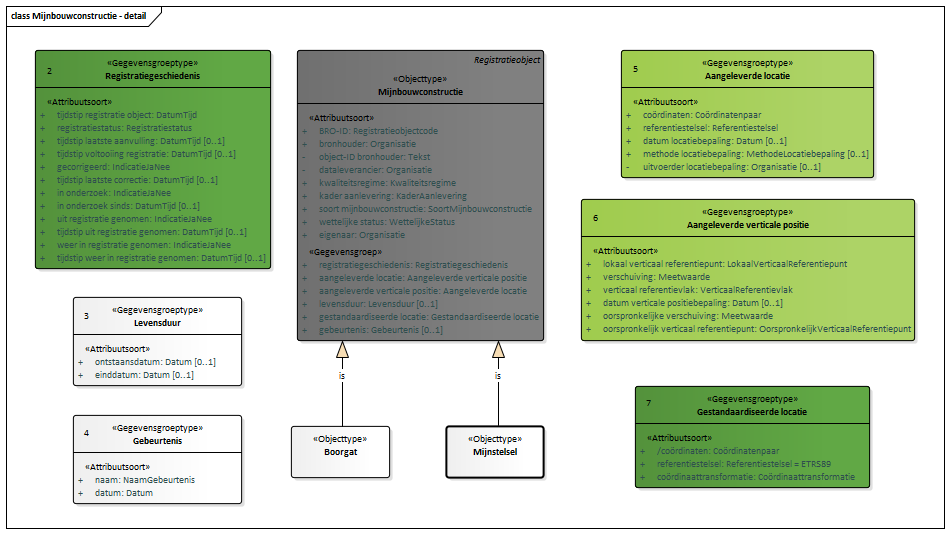
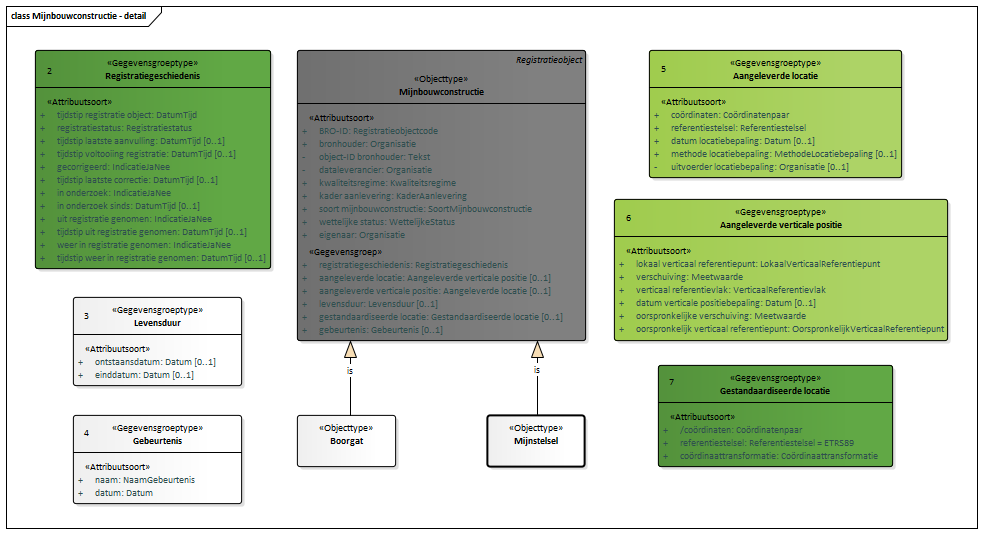
Conceptualmodel-MijnbouwconstructiesEPC-conceptueel-0.1versie27juli2020-1-20200727-20210115-105743

diff --git a/data/EPC-cat.msword.html b/data/EPC-cat.msword.html
@@ -15,7 +15,7 @@
    <body>
       <p>Conceptual model/Mijnbouwconstructies (EPC) - conceptueel/20200727</p>
       <p>Imvertor: 1.63.0</p>
-      <p>Model release: Conceptualmodel-MijnbouwconstructiesEPC-conceptueel-0.1versie27juli2020-1-20200727-20210115-085058</p>
+      <p>Model release: Conceptualmodel-MijnbouwconstructiesEPC-conceptueel-0.1versie27juli2020-1-20200727-20210115-105743</p>
       <hr>
       <section>
          <h1>Artikel 1 Definitie van registratieobject, entiteiten en attributen</h1>
@@ -62,7 +62,7 @@
          <section>
             <h2>Het domeinmodel</h2>
             <section id="">
-               <div class="imageinfo overview"><img src="Images/EAID_017CB205_53B6_4659_8664_F773CFA9FA2C.png" usemap="#imagemap-EAID_017CB205_53B6_4659_8664_F773CFA9FA2C" alt="Diagram "><map name="imagemap-EAID_017CB205_53B6_4659_8664_F773CFA9FA2C"><area shape="rect" alt="Mijnkaart" coords="1149,407,1301,579" href="#graph_EAID_1A8DB415_AEF6_4f69_8E8C_0187A61B4D1B"><area shape="rect" alt="Ontginningszone" coords="937,649,1202,820" href="#graph_EAID_B1D55B65_6D27_4eb4_86EC_32DE6BA11322"><area shape="rect" alt="Transportzone" coords="634,649,902,806" href="#graph_EAID_828E18BC_B644_41e8_BF25_CBDE10E9249E"><area shape="rect" alt="Toegang" coords="333,649,602,820" href="#graph_EAID_35D7E222_DC56_4b0e_B219_FCFEF3AE6D86"><area shape="rect" alt="Mijnstelsel" coords="628,407,897,564" href="#graph_EAID_CACC8EE7_6654_4fe8_8333_101AC6BA294D"><area shape="rect" alt="Boorgat" coords="55,399,218,437" href="#graph_EAID_78FEC25A_E260_4420_9D1D_66F309EA2C60"><area shape="rect" alt="Boortraject" coords="35,493,248,664" href="#graph_EAID_4E52826A_2252_4994_8AD0_986AD45E18C9"><area shape="rect" alt="Mijnbouwconstructie" coords="307,50,554,325" href="#graph_EAID_69DE8D60_7E06_4b57_94CD_8338348EDAE5"></map><p><b>Mijnbouwconstructies (EPC) -  overzicht</b></p>
+               <div class="imageinfo overview"><img src="Images/EAID_017CB205_53B6_4659_8664_F773CFA9FA2C.png" usemap="#imagemap-EAID_017CB205_53B6_4659_8664_F773CFA9FA2C" alt="Diagram "><map name="imagemap-EAID_017CB205_53B6_4659_8664_F773CFA9FA2C"><area shape="rect" alt="Mijnkaart" coords="1019,405,1171,577" href="#graph_EAID_1A8DB415_AEF6_4f69_8E8C_0187A61B4D1B"><area shape="rect" alt="Ontginningszone" coords="900,647,1172,818" href="#graph_EAID_B1D55B65_6D27_4eb4_86EC_32DE6BA11322"><area shape="rect" alt="Transportzone" coords="597,647,871,804" href="#graph_EAID_828E18BC_B644_41e8_BF25_CBDE10E9249E"><area shape="rect" alt="Toegang" coords="296,647,573,818" href="#graph_EAID_35D7E222_DC56_4b0e_B219_FCFEF3AE6D86"><area shape="rect" alt="Mijnstelsel" coords="591,405,860,562" href="#graph_EAID_CACC8EE7_6654_4fe8_8333_101AC6BA294D"><area shape="rect" alt="Boorgat" coords="55,397,218,435" href="#graph_EAID_78FEC25A_E260_4420_9D1D_66F309EA2C60"><area shape="rect" alt="Boortraject" coords="35,491,248,662" href="#graph_EAID_4E52826A_2252_4994_8AD0_986AD45E18C9"><area shape="rect" alt="Mijnbouwconstructie" coords="273,50,562,325" href="#graph_EAID_69DE8D60_7E06_4b57_94CD_8338348EDAE5"></map><p><b>Mijnbouwconstructies (EPC) -  overzicht</b></p>
                </div>
             </section>
          </section>
@@ -70,7 +70,7 @@
             <h2>Entiteiten en attributen</h2>
             <section id=""><a class="anchor" id="graph_EAID_69DE8D60_7E06_4b57_94CD_8338348EDAE5"></a><a class="anchor" id="global_class_Model_Mijnbouwconstructie"></a><section id="global_class_Model_Mijnbouwconstructie">
                   <h3>   Mijnbouwconstructie</h3>
-                  <div class="imageinfo "><img src="Images/EAID_4918A086_07EB_4d65_A8F1_3AE97E085019.png" usemap="#imagemap-EAID_4918A086_07EB_4d65_A8F1_3AE97E085019" alt="Diagram "><map name="imagemap-EAID_4918A086_07EB_4d65_A8F1_3AE97E085019"><area shape="rect" alt="Gebeurtenis" coords="73,415,242,504" href="#graph_EAID_9C6EA470_E1F4_479d_B21A_A6E8EA9D3F88"><area shape="rect" alt="Mijnstelsel" coords="446,426,544,478" href="#graph_EAID_CACC8EE7_6654_4fe8_8333_101AC6BA294D"><area shape="rect" alt="Boorgat" coords="291,426,390,478" href="#graph_EAID_78FEC25A_E260_4420_9D1D_66F309EA2C60"><area shape="rect" alt="Levensduur" coords="73,297,242,386" href="#graph_EAID_C36A9725_3F81_4f6c_BDE2_5CED730905A2"><area shape="rect" alt="Gestandaardiseerde locatie" coords="635,386,870,488" href="#graph_EAID_95E39295_3080_4135_862A_30756039B864"><area shape="rect" alt="Mijnbouwconstructie" coords="297,50,544,341" href="#graph_EAID_69DE8D60_7E06_4b57_94CD_8338348EDAE5"><area shape="rect" alt="Registratiegeschiedenis" coords="35,50,271,269" href="#graph_EAID_8550146B_496A_40ca_BE86_AFD377E5A6D8"><area shape="rect" alt="Aangeleverde verticale positie" coords="581,199,915,341" href="#graph_EAID_A249D799_B098_49cd_98AA_DCAE0EB07DE7"><area shape="rect" alt="Aangeleverde locatie" coords="621,50,874,178" href="#graph_EAID_EDA11EEA_8FED_44be_AC04_18B58CB46F11"></map><p><b></b></p>
+                  <div class="imageinfo "><img src="Images/EAID_4918A086_07EB_4d65_A8F1_3AE97E085019.png" usemap="#imagemap-EAID_4918A086_07EB_4d65_A8F1_3AE97E085019" alt="Diagram "><map name="imagemap-EAID_4918A086_07EB_4d65_A8F1_3AE97E085019"><area shape="rect" alt="Gebeurtenis" coords="73,415,242,504" href="#graph_EAID_9C6EA470_E1F4_479d_B21A_A6E8EA9D3F88"><area shape="rect" alt="Mijnstelsel" coords="487,415,585,467" href="#graph_EAID_CACC8EE7_6654_4fe8_8333_101AC6BA294D"><area shape="rect" alt="Boorgat" coords="297,415,396,467" href="#graph_EAID_78FEC25A_E260_4420_9D1D_66F309EA2C60"><area shape="rect" alt="Levensduur" coords="73,297,242,386" href="#graph_EAID_C36A9725_3F81_4f6c_BDE2_5CED730905A2"><area shape="rect" alt="Gestandaardiseerde locatie" coords="658,365,893,467" href="#graph_EAID_95E39295_3080_4135_862A_30756039B864"><area shape="rect" alt="Mijnbouwconstructie" coords="297,50,586,341" href="#graph_EAID_69DE8D60_7E06_4b57_94CD_8338348EDAE5"><area shape="rect" alt="Registratiegeschiedenis" coords="35,50,271,269" href="#graph_EAID_8550146B_496A_40ca_BE86_AFD377E5A6D8"><area shape="rect" alt="Aangeleverde verticale positie" coords="614,199,948,341" href="#graph_EAID_A249D799_B098_49cd_98AA_DCAE0EB07DE7"><area shape="rect" alt="Aangeleverde locatie" coords="649,50,902,178" href="#graph_EAID_EDA11EEA_8FED_44be_AC04_18B58CB46F11"></map><p><b></b></p>
                   </div>
                   <table style="width: 100%;">
                      <colgroup style="width: 30%;"></colgroup>
@@ -553,14 +553,19 @@
                               <th>Reden geen waarde</th>
                               <td>
                                  
-                                 <p>Voor IMBRO/A gegevens mag de eigenaar ontbreken wanneer het attribuut <em>mijnbouwactiviteit</em> gelijk is aan opsporenDelfstof (steenkool).
-                                    De eigenaar mag ontbreken wanneer de laatste eigenaar van een boorgat failliet is
+                                 <p>Voor IMBRO/A gegevens mag de eigenaar ontbreken wanneer het attribuut <em>mijnbouwactiviteit</em> gelijk is aan opsporenDelfstof (steenkool).</p>
+                                 
+                                 <p>De eigenaar mag ontbreken wanneer de laatste eigenaar van een boorgat failliet is
                                     gegaan en het bedrijf niet is overgenomen door een ander. Op dat moment is het boorgat
-                                    eigenaarloos.
-                                    De eigenaar van het <em>Mijnstelsel</em> is een natuurlijk persoon.
-                                    Het <em>Mijnstelsel</em> is niet van het <em>soort mijnstelsel</em> 'steenkoolmijn' en heeft toegangen met verschillende eigenaren.
-                                    Het <em>Mijnstelsel</em> is niet van het <em>soort mijnstelsel</em> 'steenkoolmijn' en heeft alleen toegangen die buiten Nederland liggen.
-                                    Het <em>Mijnstelsel</em> is niet van het <em>soort mijnstelsel</em> 'steenkoolmijn' en heeft geen bekende toegangen.</p>
+                                    eigenaarloos.</p>
+                                 
+                                 <p>De eigenaar van het <em>Mijnstelsel</em> is een natuurlijk persoon.</p>
+                                 
+                                 <p>Het <em>Mijnstelsel</em> is niet van het <em>soort mijnstelsel</em> 'steenkoolmijn' en heeft toegangen met verschillende eigenaren.</p>
+                                 
+                                 <p>Het <em>Mijnstelsel</em> is niet van het <em>soort mijnstelsel</em> 'steenkoolmijn' en heeft alleen toegangen die buiten Nederland liggen.</p>
+                                 
+                                 <p>Het <em>Mijnstelsel</em> is niet van het <em>soort mijnstelsel</em> 'steenkoolmijn' en heeft geen bekende toegangen.</p>
                                  </td>
                            </tr>
                            <tr>
@@ -585,7 +590,7 @@
                            </tr>
                         </tbody>
                      </table>
-                     </section><a class="anchor" id="detail_d47857e1999"></a><section id="detail_d47857e1999">
+                     </section><a class="anchor" id="detail_d47817e2023"></a><section id="detail_d47817e2023">
                      <h4>  registratiegeschiedenis</h4>
                      
                      
@@ -625,7 +630,7 @@
                            </tr>
                         </tbody>
                      </table>
-                     </section><a class="anchor" id="detail_d47857e2122"></a><section id="detail_d47857e2122">
+                     </section><a class="anchor" id="detail_d47817e2146"></a><section id="detail_d47817e2146">
                      <h4>  aangeleverde locatie</h4>
                      
                      
@@ -643,7 +648,7 @@
                            </tr>
                            <tr>
                               <th>Kardinaliteit</th>
-                              <td>1</td>
+                              <td>0..1</td>
                            </tr>
                            <tr>
                               <th>Relatiesoort naam</th>
@@ -665,7 +670,7 @@
                            </tr>
                         </tbody>
                      </table>
-                     </section><a class="anchor" id="detail_d47857e2245"></a><section id="detail_d47857e2245">
+                     </section><a class="anchor" id="detail_d47817e2269"></a><section id="detail_d47817e2269">
                      <h4>  aangeleverde verticale positie</h4>
                      
                      
@@ -683,7 +688,7 @@
                            </tr>
                            <tr>
                               <th>Kardinaliteit</th>
-                              <td>1</td>
+                              <td>0..1</td>
                            </tr>
                            <tr>
                               <th>Relatiesoort naam</th>
@@ -705,7 +710,7 @@
                            </tr>
                         </tbody>
                      </table>
-                     </section><a class="anchor" id="detail_d47857e2368"></a><section id="detail_d47857e2368">
+                     </section><a class="anchor" id="detail_d47817e2392"></a><section id="detail_d47817e2392">
                      <h4>  levensduur</h4>
                      
                      
@@ -745,7 +750,7 @@
                            </tr>
                         </tbody>
                      </table>
-                     </section><a class="anchor" id="detail_d47857e2491"></a><section id="detail_d47857e2491">
+                     </section><a class="anchor" id="detail_d47817e2515"></a><section id="detail_d47817e2515">
                      <h4>  gestandaardiseerde locatie</h4>
                      
                      
@@ -763,7 +768,7 @@
                            </tr>
                            <tr>
                               <th>Kardinaliteit</th>
-                              <td>1</td>
+                              <td>0..1</td>
                            </tr>
                            <tr>
                               <th>Relatiesoort naam</th>
@@ -785,7 +790,7 @@
                            </tr>
                         </tbody>
                      </table>
-                     </section><a class="anchor" id="detail_d47857e2614"></a><section id="detail_d47857e2614">
+                     </section><a class="anchor" id="detail_d47817e2638"></a><section id="detail_d47817e2638">
                      <h4>  gebeurtenis</h4>
                      
                      
@@ -1469,7 +1474,7 @@
                            <th>Definitie</th>
                            <td>
                               
-                              <p>De periode gedurende welke een mijnbouwconstructie bestaat in de werkelijkheid. </p>
+                              <p>De periode gedurende welke de mijnbouwconstructie bestaat in de fysieke wereld.</p>
                               </td>
                         </tr>
                      </tbody>
@@ -1488,7 +1493,7 @@
                               <th>Definitie</th>
                               <td>
                                  
-                                 <p>De datum waarop met de aanleg van een mijnbouwconstructie in de werkelijkheid is gestart.</p>
+                                 <p>De datum waarop de aanleg van de mijnbouwconstructie is gestart.</p>
                                  </td>
                            </tr>
                            <tr>
@@ -1508,24 +1513,12 @@
                               <td>Datum</td>
                            </tr>
                            <tr>
-                              <th>&nbsp;&nbsp;Naam IMBRO/A</th>
-                              <td>OnvolledigeDatum</td>
-                           </tr>
-                           <tr>
                               <th>Regels</th>
                               <td>
                                  
-                                 <p>Het attribuut <em>* moet aanwezig zijn wanneer de waarde van het attribuut</em>soort mijnbouwconstructie<em>ongelijk is aan</em>mijnstelsel*.</p>
-                                 </td>
-                           </tr>
-                           <tr>
-                              <th>Regels IMBRO/A</th>
-                              <td>
-                                 
-                                 <p>Het attribuut <em> </em> mag afwezig zijn wanneer de gegevens zijn aangeleverd onder het kwaliteitsregime
-                                    IMBRO/A.
-                                    Het attribuut mag een onvolledige datum bevatten wanneer de gegevens zijn aangeleverd
-                                    onder het kwaliteitsregime IMBRO/A en de waarde van het attribuut <em>soort mijnbouwconstructie</em> gelijk is aan <em>mijnstelsel</em>.</p>
+                                 <p>Het attribuut moet aanwezig zijn wanneer de waarde van het attribuut <em>soort mijnbouwconstructie</em> ongelijk is aan <em>mijnstelsel</em>.
+                                    Het attribuut mag een onvolledige datum bevatten wanneer de waarde van het attribuut
+                                    <em>soort mijnbouwconstructie</em> gelijk is aan <em>mijnstelsel</em>.</p>
                                  </td>
                            </tr>
                            <tr>
@@ -1577,15 +1570,11 @@
                               <td>Datum</td>
                            </tr>
                            <tr>
-                              <th>&nbsp;&nbsp;Naam IMBRO/A</th>
-                              <td>OnvolledigeDatum</td>
-                           </tr>
-                           <tr>
-                              <th>Regels IMBRO/A</th>
+                              <th>Regels</th>
                               <td>
                                  
-                                 <p>Het attribuut mag een onvolledige datum bevatten wanneer de gegevens zijn aangeleverd
-                                    onder het kwaliteitsregime IMBRO/A en de waarde van het attribuut <em>soort mijnbouwconstructie</em> gelijk is aan <em>mijnstelsel</em>.</p>
+                                 <p>Het attribuut mag een onvolledige datum bevatten wanneer de waarde van het attribuut
+                                    <em>soort mijnbouwconstructie</em> gelijk is aan <em>mijnstelsel</em>.</p>
                                  </td>
                            </tr>
                            <tr>
@@ -1726,6 +1715,8 @@
                            <td>
                               
                               <p>De gegevensgroep <em>Aangeleverde locatie</em> moet aanwezig zijn bij de entiteit <em>Mijnbouwconstructie</em> wanneer de waarde van het attribuut <em>soort mijnbouwconstructie</em> gelijk is aan <em>boorgat</em>.</p>
+                              
+                              <p>De gegevensgroep <em>Aangeleverde locatie</em> mag niet aanwezig zijn bij de entiteit <em>Mijnbouwconstructie</em> wanneer de waarde van het attribuut <em>soort mijnbouwconstructie</em> ongelijk is aan <em>boorgat</em>.</p>
                               </td>
                         </tr>
                         <tr>
@@ -2051,6 +2042,8 @@
                            <td>
                               
                               <p>De gegevensgroep <em>Aangeleverde verticale positie</em> moet aanwezig zijn bij de entiteit <em>Mijnbouwconstructie</em> wanneer de waarde van het attribuut <em>soort mijnbouwconstructie</em> gelijk is aan <em>boorgat</em>.</p>
+                              
+                              <p>De gegevensgroep <em>Aangeleverde verticale positie</em> mag niet aanwezig zijn bij de entiteit <em>Mijnbouwconstructie</em> wanneer de waarde van het attribuut <em>soort mijnbouwconstructie</em> ongelijk is aan <em>boorgat</em>.</p>
                               </td>
                         </tr>
                      </tbody>
@@ -2417,6 +2410,8 @@
                            <td>
                               
                               <p>De gegevensgroep <em>Gestandaardiseerde locatie</em> moet aanwezig zijn bij de entiteit <em>Mijnbouwconstructie</em> wanneer de waarde van het attribuut <em>soort mijnbouwconstructie</em> gelijk is aan <em>boorgat</em>.</p>
+                              
+                              <p>De gegevensgroep <em>Gestandaardiseerde locatie</em> mag niet aanwezig zijn bij de entiteit <em>Mijnbouwconstructie</em> wanneer de waarde van het attribuut <em>soort mijnbouwconstructie</em> ongelijk is aan <em>boorgat</em>.</p>
                               </td>
                         </tr>
                         <tr>
@@ -2968,7 +2963,7 @@
                            </tr>
                         </tbody>
                      </table>
-                     </section><a class="anchor" id="detail_d47857e9835"></a><section id="detail_d47857e9835">
+                     </section><a class="anchor" id="detail_d47817e9856"></a><section id="detail_d47817e9856">
                      <h4>  boortraject locatie</h4>
                      
                      
@@ -3638,7 +3633,7 @@
                            </tr>
                         </tbody>
                      </table>
-                     </section><a class="anchor" id="detail_d47857e11884"></a><section id="detail_d47857e11884">
+                     </section><a class="anchor" id="detail_d47817e11905"></a><section id="detail_d47817e11905">
                      <h4>  gegevens locatiebepaling</h4>
                      
                      
@@ -3981,7 +3976,7 @@
                            </tr>
                         </tbody>
                      </table>
-                     </section><a class="anchor" id="detail_d47857e13007"></a><section id="detail_d47857e13007">
+                     </section><a class="anchor" id="detail_d47817e13028"></a><section id="detail_d47817e13028">
                      <h4>  gegevens locatiebepaling</h4>
                      
                      
@@ -4302,7 +4297,7 @@
                            </tr>
                         </tbody>
                      </table>
-                     </section><a class="anchor" id="detail_d47857e14117"></a><section id="detail_d47857e14117">
+                     </section><a class="anchor" id="detail_d47817e14138"></a><section id="detail_d47817e14138">
                      <h4>  gegevens locatiebepaling</h4>
                      
                      
@@ -4695,7 +4690,7 @@
                            </tr>
                         </tbody>
                      </table>
-                     </section><a class="anchor" id="detail_d47857e15452"></a><section id="detail_d47857e15452">
+                     </section><a class="anchor" id="detail_d47817e15473"></a><section id="detail_d47817e15473">
                      <h4>  gegevens locatiebepaling</h4>
                      
                      
